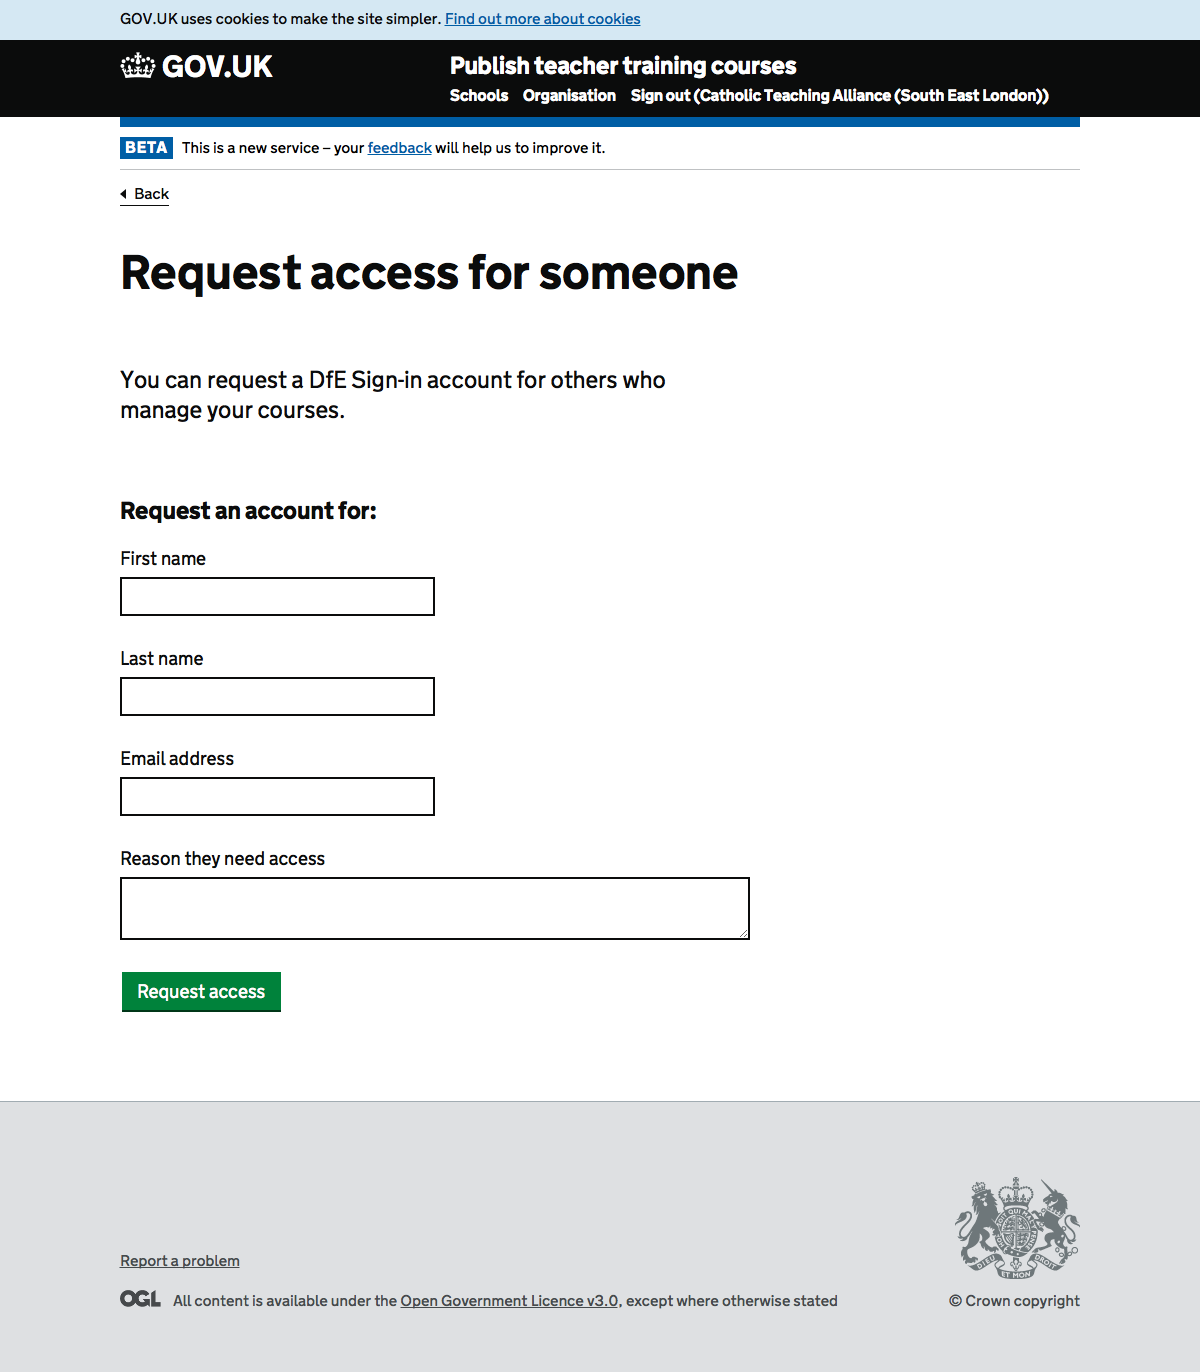
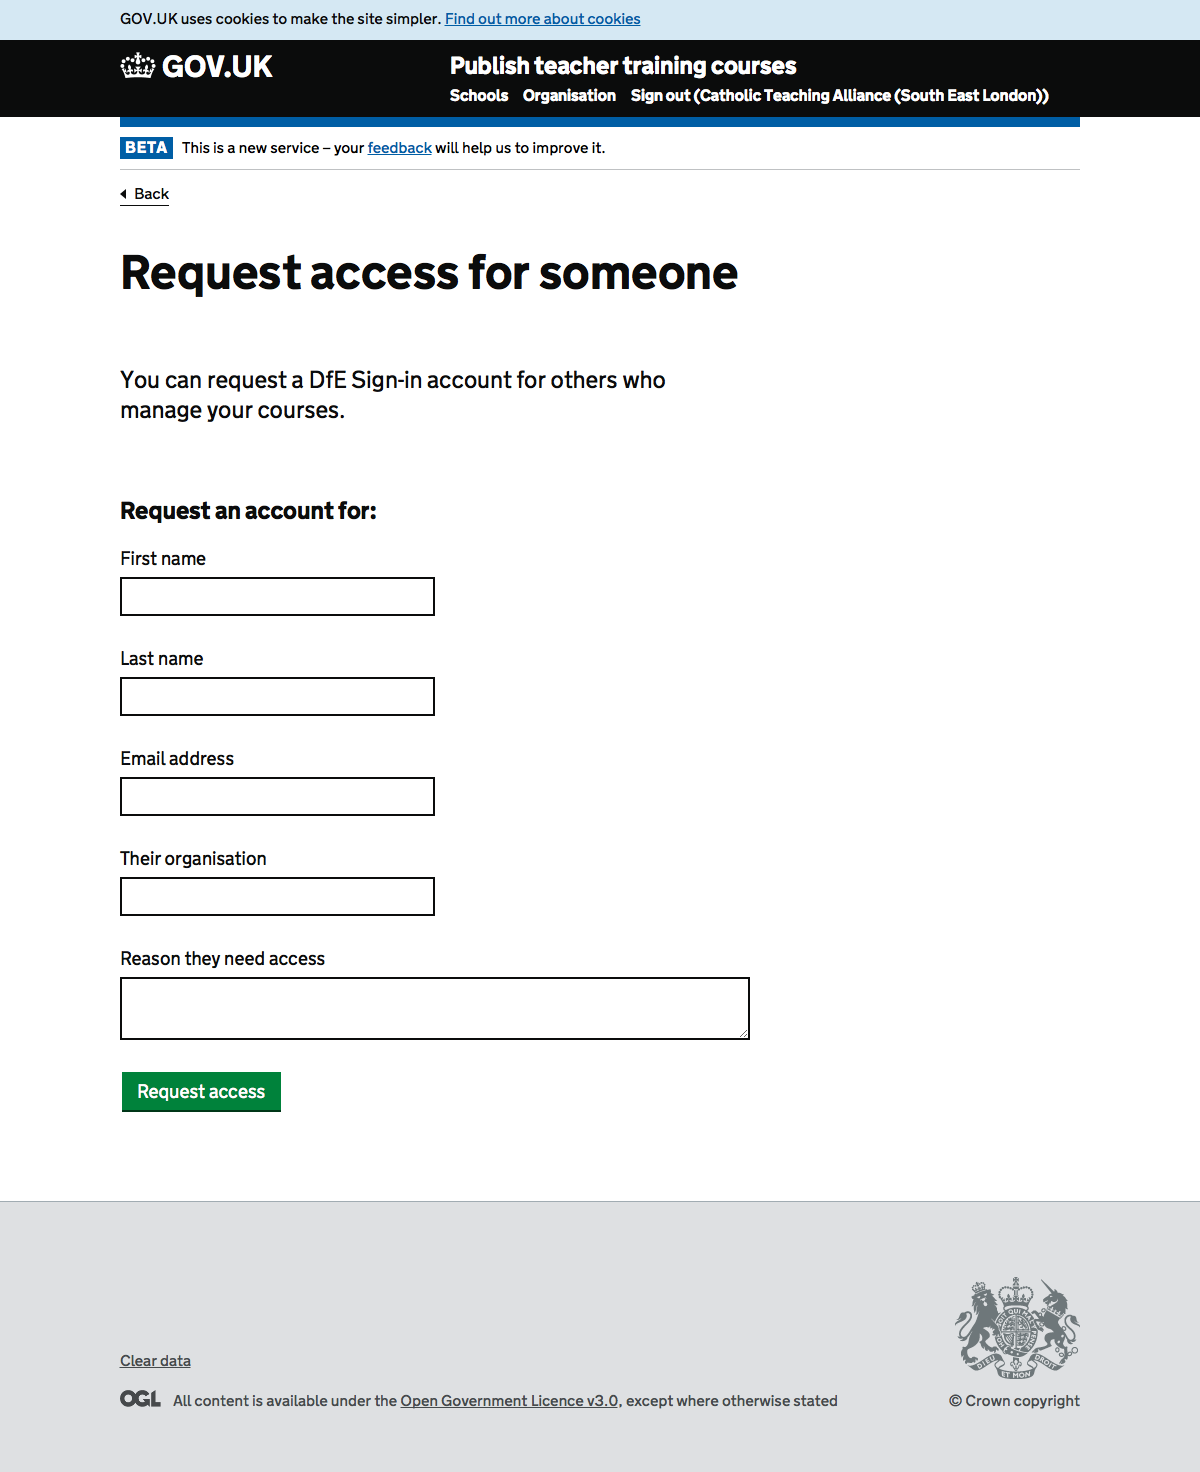
Add organisation to request form
We'd like to know if they're part of the same or a different org to the requester.

diff --git a/app/views/history/request-access-iteration-june-29/index.html b/app/views/history/request-access-iteration-june-29/index.html
@@ -14,7 +14,8 @@
 
   <div class="grid-row">
     <div class="column-two-thirds">
-      <p>A small iteration on the <a href="/history/check-ucas-data#request-access">initial design</a> adding a form legend and success message.</p>
+      <p>A small iteration on the <a href="/history/check-ucas-data#request-access">initial design</a> adding a form legend, the new user’s organisation and success message.</p>
+      <p>We’d like to record whether the new user is part of the same organisation or a different one.</p>
     </div>
   </div>
 

diff --git a/app/views/request-access.html b/app/views/request-access.html
@@ -22,6 +22,7 @@
         {{ macros.textbox('request-first-name', 'First name') }}
         {{ macros.textbox('request-last-name', 'Last name') }}
         {{ macros.textbox('request-email', 'Email address') }}
+        {{ macros.textbox('request-organisation', 'Their organisation') }}
         {{ macros.textareaBasic('request-reason', 'Reason they need access', 2) }}
         <input type="submit" class="button" value="Request access">
       </form>
